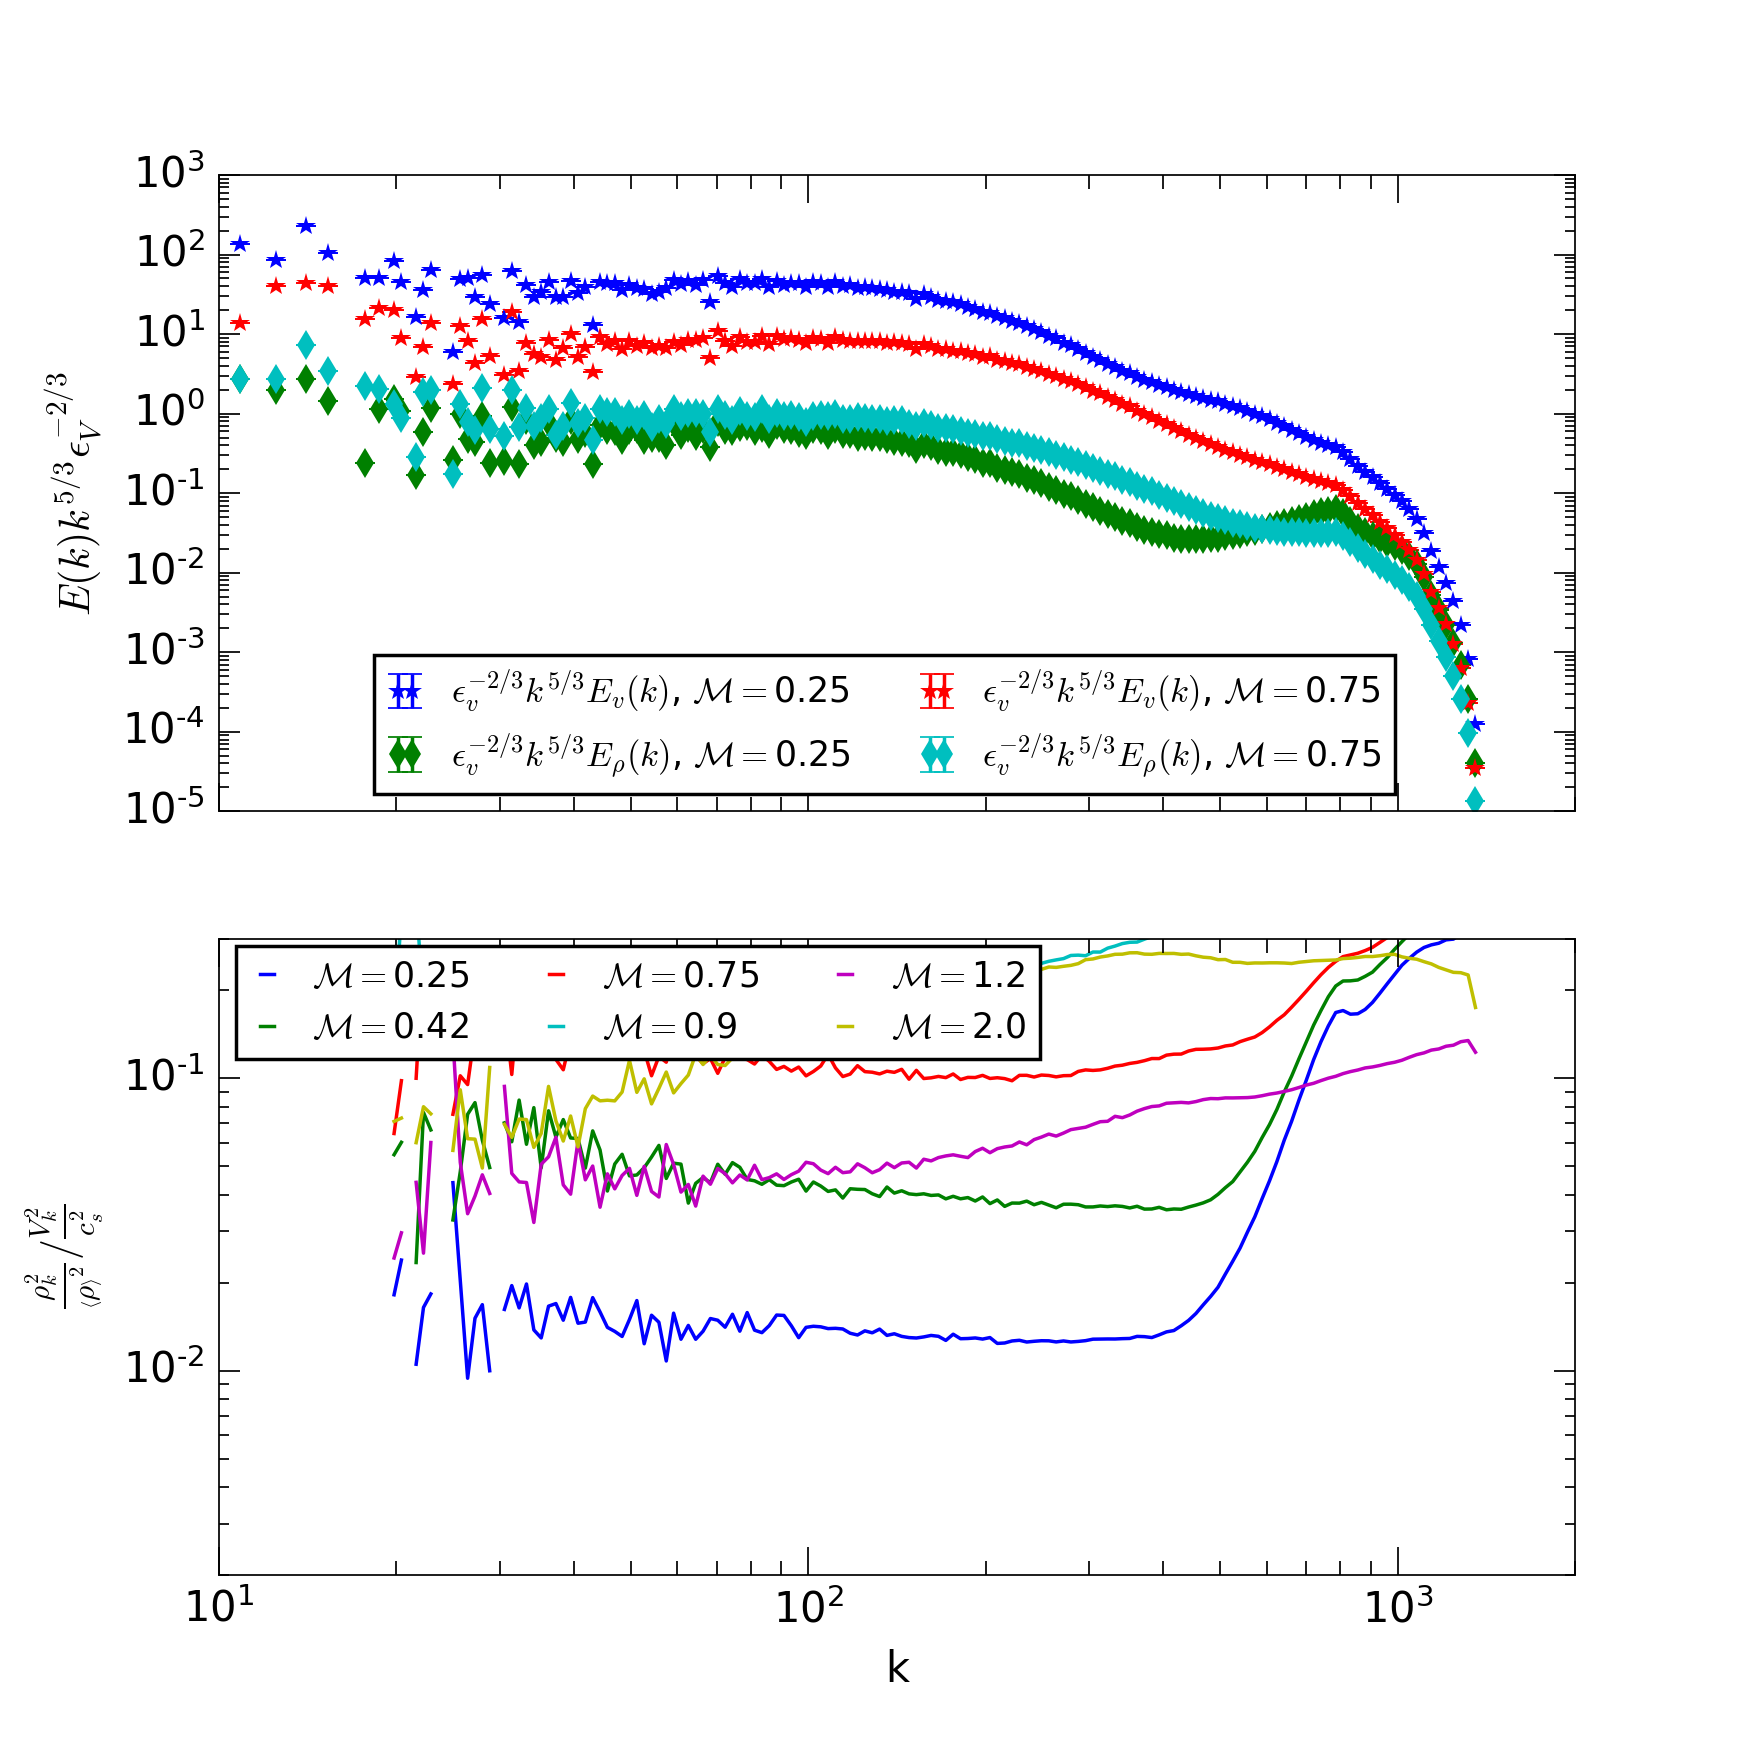
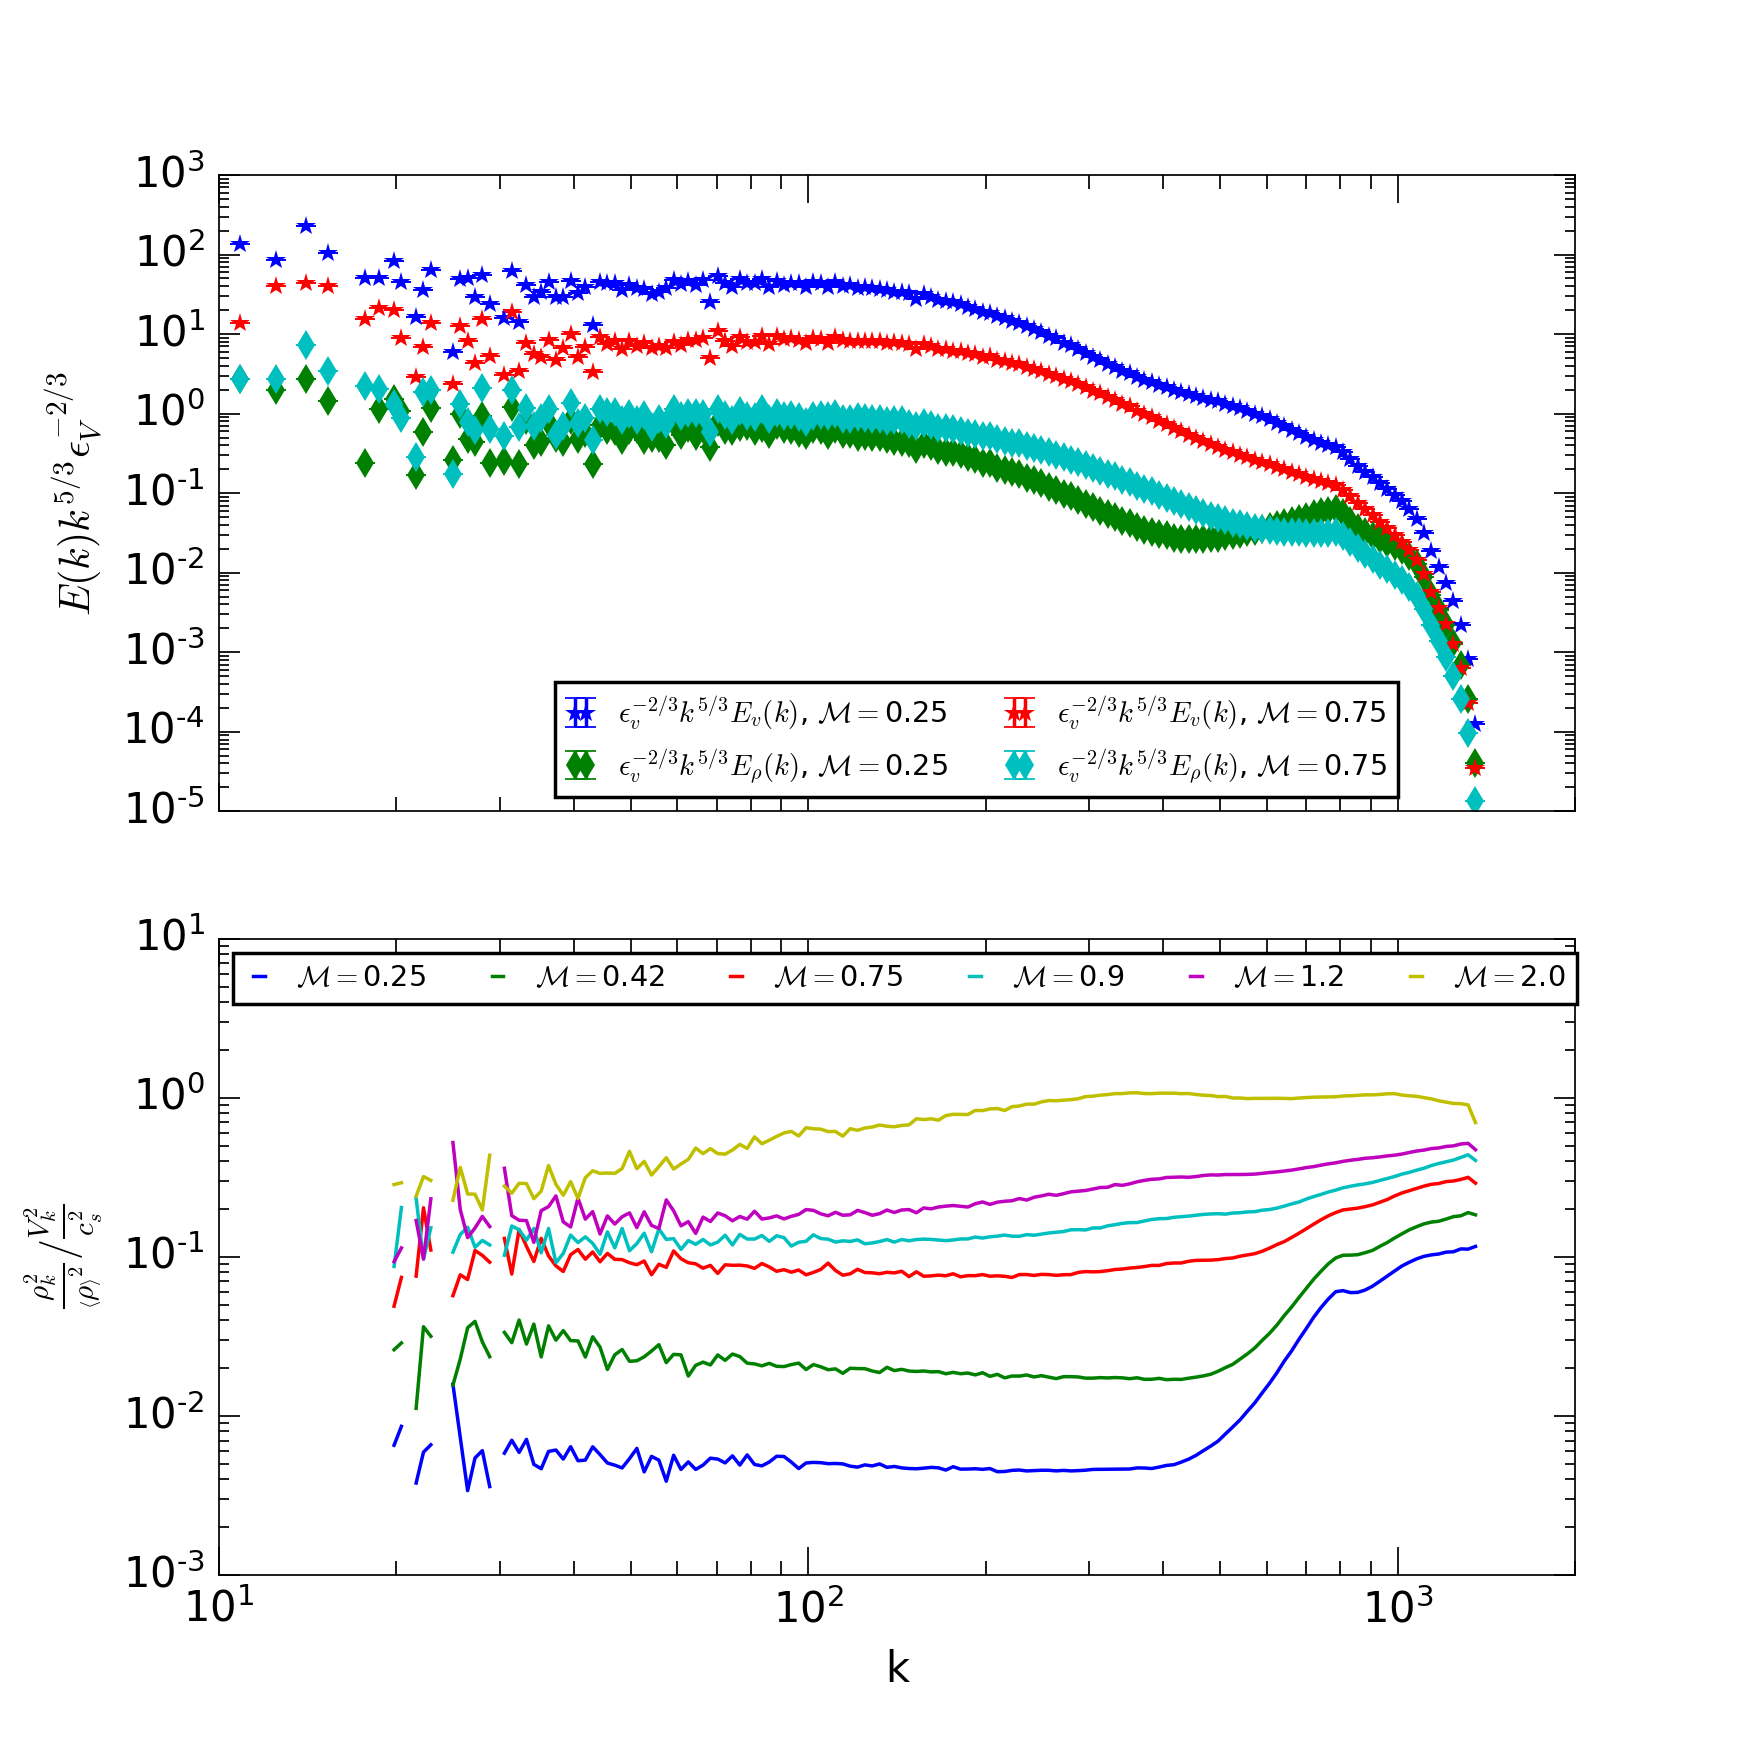
Edited ratio power spectra plots

diff --git a/All_analysis/diff_spectra.py b/All_analysis/diff_spectra.py
@@ -6,7 +6,7 @@ from scipy.optimize import curve_fit
 from scipy import stats
 import pylab as plot
 plt.style.use('classic')
-params = {'legend.fontsize':10.0,
+params = {'legend.fontsize':8.25,
           'legend.handlelength': 1.0}
 plt.rcParams['axes.linewidth'] = .5
 plt.rcParams['xtick.major.size'] = 8
@@ -27,6 +27,7 @@ start=np.array((100, 75, 20, 14, 5, 2))
 amp=np.array((0.005, 0.02, 0.1, 0.1, 0.9,2.5))
 mach=((0.25, 0.42, 0.75, 0.9, 1.2, 2.0))
 epsilon=((0.0010, 0.0088, 0.141, 0.133, 6.18, 25.45))
+cs=((0.6, 0.69, 0.87, 0.75, 1.96, 2.0))
 time_step=0.2
 no_bins=200
 no_files=1
@@ -84,7 +85,7 @@ for i in xrange(0, start.size):
 		ax1.errorbar(k1[1:-10],Ek_comp1[1:-10],yerr=del_Ek_comp1[1:-10],fmt='*', label=r'$\epsilon_v^{-2/3}k^{5/3}E_v(k)$, $\mathcal{M}=$'+str(mach[i]), markeredgecolor='None')
 		ax1.errorbar(k2[1:-10],Ek_comp2[1:-10],yerr=del_Ek_comp2[1:-10],fmt='d', label=r'$\epsilon_v^{-2/3}k^{5/3}E_{\rho}(k)$, $\mathcal{M}= $'+str(mach[i]), markeredgecolor='None')
 	#Plot ratio
-	ax2.plot(k1[1:-10],Ek2[1:-10]/Ek1[1:-10], label='$\mathcal{M}=$'+str(mach[i]))
+	ax2.plot(k1[1:-10],Ek2[1:-10]*cs[i]**2./Ek1[1:-10], label='$\mathcal{M}=$'+str(mach[i]))
 ax1.set_yscale('log')
 ax1.set_xscale('log')
 #ax1.set_xlabel('k')
@@ -98,8 +99,8 @@ ax2.set_yscale('log')
 ax2.set_xscale('log')
 ax2.set_xlabel('k')
 ax2.set_ylabel(r'$\frac{\rho_k^2}{\left<\rho\right>^2}/\frac{V_k^2}{c_s^2}$')
-ax2.set_ylim(2.e-3,3e-1)
-ax2.legend(loc='center left', bbox_to_anchor=(0, 0.9), ncol=3)
+#ax2.set_ylim(1.e-2,3e-1)
+ax2.legend(loc='upper left', bbox_to_anchor=(0., 1.0), ncol=6)
 #ax2.set_title(r'Ratio of velocity and density power spectra' )
 plt.savefig('Ratio_rho-vel_lowk_256.png',dpi=250)
 
